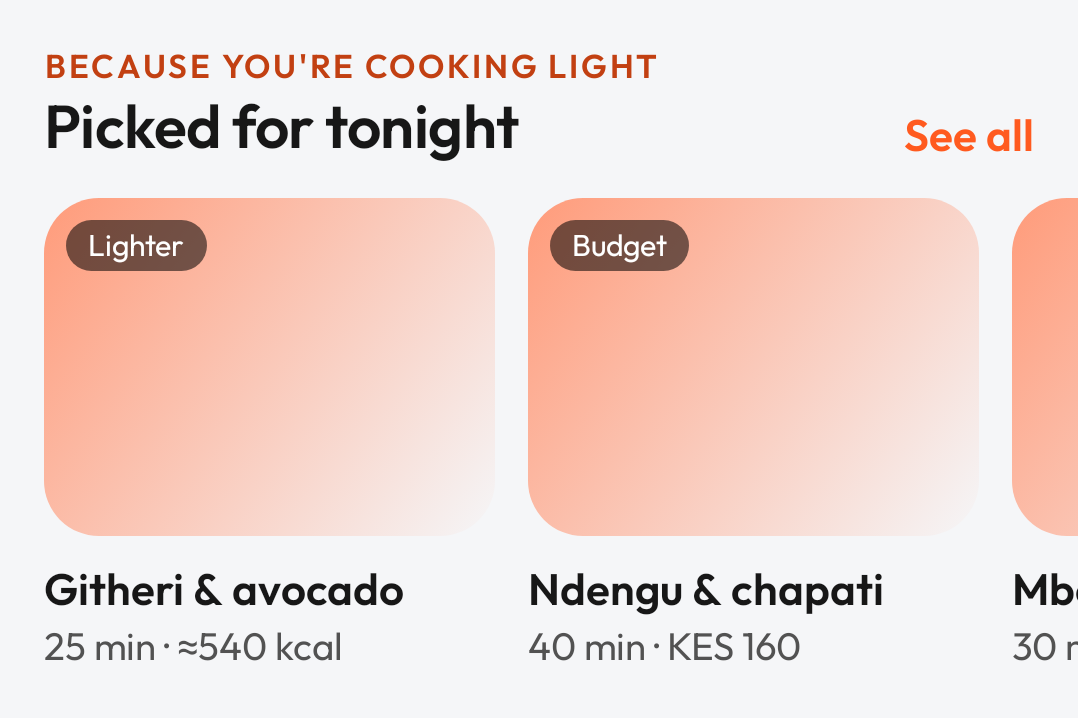
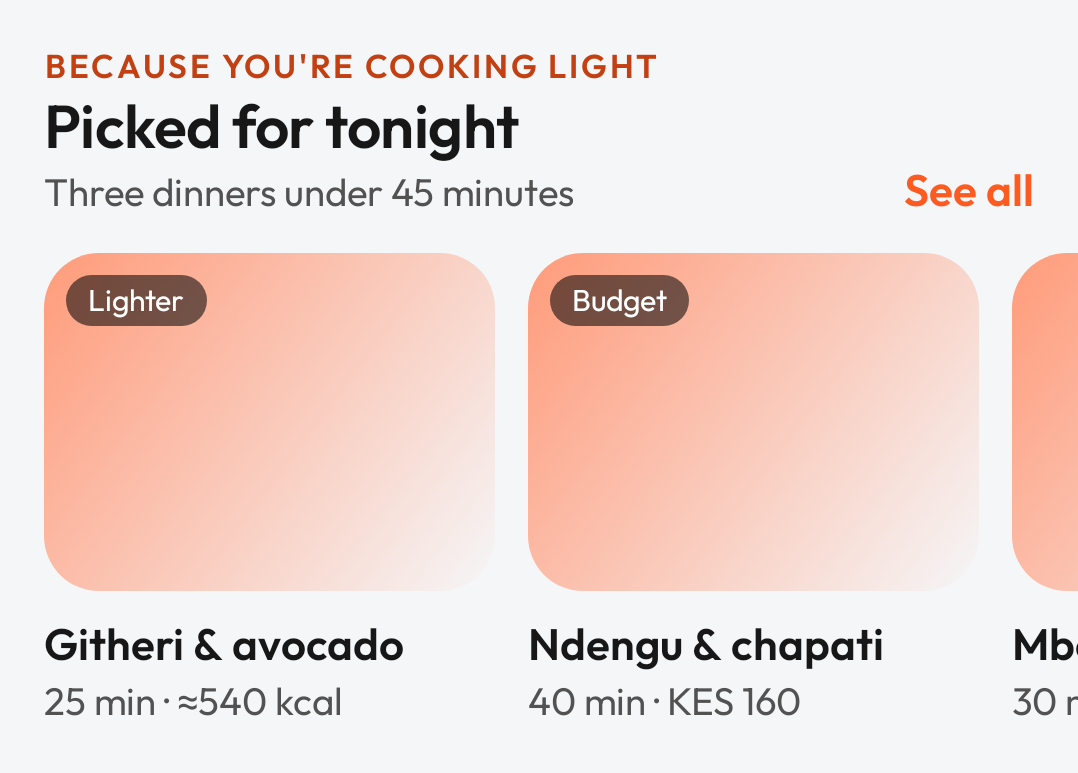
Add subtitle to JengaImageShelf and drop the pressed box on shelf and verdict bar actions

diff --git a/jenga/src/commonMain/kotlin/io/github/joelkanyi/jenga/component/verdict/JengaVerdictBar.kt b/jenga/src/commonMain/kotlin/io/github/joelkanyi/jenga/component/verdict/JengaVerdictBar.kt
@@ -1,7 +1,6 @@
 package io.github.joelkanyi.jenga.component.verdict
 
 import androidx.compose.foundation.background
-import androidx.compose.foundation.clickable
 import androidx.compose.foundation.layout.Arrangement
 import androidx.compose.foundation.layout.Box
 import androidx.compose.foundation.layout.Column
@@ -26,6 +25,8 @@ import androidx.compose.ui.unit.Dp
 import androidx.compose.ui.unit.dp
 import dev.drewhamilton.poko.Poko
 import io.github.joelkanyi.jenga.component.action.JengaAction
+import io.github.joelkanyi.jenga.component.link.JengaLink
+import io.github.joelkanyi.jenga.component.link.JengaLinkColors
 import io.github.joelkanyi.jenga.component.text.JengaText
 import io.github.joelkanyi.jenga.theme.JengaTheme
 
@@ -199,72 +200,89 @@ public fun JengaVerdictBar(
         verticalArrangement = Arrangement.spacedBy(JengaTheme.spacing.sm),
     ) {
         if (label != null || action != null) {
-            Row(verticalAlignment = Alignment.CenterVertically) {
-                if (label != null) {
-                    JengaText(
-                        text = label,
-                        style = JengaTheme.typography.bodySmall,
-                        color = colors.accent,
-                        modifier = Modifier.weight(1f),
-                        maxLines = 1,
-                    )
-                } else {
-                    Box(Modifier.weight(1f))
-                }
-                if (action != null) {
-                    JengaText(
-                        text = action.label,
-                        style = JengaTheme.typography.bodySmall,
-                        color = colors.muted,
-                        maxLines = 1,
-                        modifier = Modifier.clickable(onClick = action.onClick),
-                    )
-                }
-            }
+            VerdictHeader(label, action, colors)
         }
-        Row(verticalAlignment = Alignment.Bottom) {
-            JengaText(text = amount, style = amountStyle, color = colors.amount, maxLines = 1)
-            if (amountSuffix != null) {
-                JengaText(
-                    text = " $amountSuffix",
-                    style = amountSuffixStyle,
-                    color = colors.accent,
-                    maxLines = 1,
-                    modifier = Modifier.padding(bottom = JengaTheme.spacing.xs),
-                )
-            }
-        }
+        VerdictAmount(amount, amountSuffix, amountStyle, amountSuffixStyle, colors)
         if (progress != null) {
-            Box(
-                Modifier
-                    .fillMaxWidth()
-                    .height(trackHeight)
-                    .clip(RoundedCornerShape(percent = 50))
-                    .background(colors.track),
-            ) {
-                Box(
-                    Modifier
-                        .fillMaxWidth(progress.coerceIn(0f, 1f))
-                        .height(trackHeight)
-                        .clip(RoundedCornerShape(percent = 50))
-                        .background(if (progress >= 1f) colors.trackComplete else colors.trackFill),
-                )
-            }
+            VerdictProgress(progress, trackHeight, colors)
         }
         if (sublines != null) {
-            val end = sublines.end
-            Row(modifier = Modifier.fillMaxWidth()) {
-                JengaText(
-                    text = sublines.start,
-                    style = JengaTheme.typography.caption,
-                    color = colors.muted,
-                    modifier = Modifier.weight(1f),
-                    maxLines = 1,
-                )
-                if (end != null) {
-                    JengaText(text = end, style = JengaTheme.typography.caption, color = colors.muted, maxLines = 1)
-                }
-            }
+            VerdictSublines(sublines, colors)
+        }
+    }
+}
+
+@Composable
+private fun VerdictHeader(label: String?, action: JengaAction?, colors: JengaVerdictBarColors) {
+    Row(verticalAlignment = Alignment.CenterVertically) {
+        JengaText(
+            text = label.orEmpty(),
+            style = JengaTheme.typography.bodySmall,
+            color = colors.accent,
+            modifier = Modifier.weight(1f),
+            maxLines = 1,
+        )
+        if (action != null) {
+            JengaLink(
+                text = action.label,
+                onClick = action.onClick,
+                style = JengaTheme.typography.bodySmall,
+                colors = JengaLinkColors(content = colors.muted, disabledContent = colors.muted),
+                underline = false,
+            )
+        }
+    }
+}
+
+@Composable
+private fun VerdictAmount(amount: String, suffix: String?, amountStyle: TextStyle, suffixStyle: TextStyle, colors: JengaVerdictBarColors) {
+    Row(verticalAlignment = Alignment.Bottom) {
+        JengaText(text = amount, style = amountStyle, color = colors.amount, maxLines = 1)
+        if (suffix != null) {
+            JengaText(
+                text = " $suffix",
+                style = suffixStyle,
+                color = colors.accent,
+                maxLines = 1,
+                modifier = Modifier.padding(bottom = JengaTheme.spacing.xs),
+            )
+        }
+    }
+}
+
+@Composable
+private fun VerdictProgress(progress: Float, trackHeight: Dp, colors: JengaVerdictBarColors) {
+    val trackShape = RoundedCornerShape(percent = 50)
+    Box(
+        Modifier
+            .fillMaxWidth()
+            .height(trackHeight)
+            .clip(trackShape)
+            .background(colors.track),
+    ) {
+        Box(
+            Modifier
+                .fillMaxWidth(progress.coerceIn(0f, 1f))
+                .height(trackHeight)
+                .clip(trackShape)
+                .background(if (progress >= 1f) colors.trackComplete else colors.trackFill),
+        )
+    }
+}
+
+@Composable
+private fun VerdictSublines(sublines: JengaVerdictSublines, colors: JengaVerdictBarColors) {
+    val end = sublines.end
+    Row(modifier = Modifier.fillMaxWidth()) {
+        JengaText(
+            text = sublines.start,
+            style = JengaTheme.typography.caption,
+            color = colors.muted,
+            modifier = Modifier.weight(1f),
+            maxLines = 1,
+        )
+        if (end != null) {
+            JengaText(text = end, style = JengaTheme.typography.caption, color = colors.muted, maxLines = 1)
         }
     }
 }

diff --git a/jenga/src/commonMain/kotlin/io/github/joelkanyi/jenga/component/shelf/JengaImageShelf.kt b/jenga/src/commonMain/kotlin/io/github/joelkanyi/jenga/component/shelf/JengaImageShelf.kt
@@ -28,6 +28,8 @@ import androidx.compose.ui.unit.dp
 import io.github.joelkanyi.jenga.component.action.JengaAction
 import io.github.joelkanyi.jenga.component.image.JengaImage
 import io.github.joelkanyi.jenga.component.image.JengaImageFit
+import io.github.joelkanyi.jenga.component.link.JengaLink
+import io.github.joelkanyi.jenga.component.link.JengaLinkColors
 import io.github.joelkanyi.jenga.component.text.JengaText
 import io.github.joelkanyi.jenga.theme.JengaTheme
 
@@ -62,6 +64,7 @@ public object JengaShelfDefaults {
  * @param title the shelf title.
  * @param modifier the [Modifier] for the shelf.
  * @param eyebrow an optional small label above the title (e.g. a promo reason).
+ * @param subtitle an optional line under the title (e.g. "Picked for your last order").
  * @param action optional trailing header action (label plus handler), e.g. "See all".
  * @param gutter horizontal inset applied to the header and the scroll content.
  * @param content the row items, laid out left-to-right in a scrolling row.
@@ -71,6 +74,7 @@ public fun JengaImageShelf(
     title: String,
     modifier: Modifier = Modifier,
     eyebrow: String? = null,
+    subtitle: String? = null,
     action: JengaAction? = null,
     gutter: Dp = JengaShelfDefaults.Gutter,
     content: @Composable () -> Unit,
@@ -79,36 +83,7 @@ public fun JengaImageShelf(
         modifier = modifier.fillMaxWidth(),
         verticalArrangement = Arrangement.spacedBy(JengaTheme.spacing.md),
     ) {
-        Row(
-            modifier = Modifier.fillMaxWidth().padding(horizontal = gutter),
-            verticalAlignment = Alignment.Bottom,
-        ) {
-            Column(Modifier.weight(1f)) {
-                if (eyebrow != null) {
-                    JengaText(
-                        text = eyebrow,
-                        style = JengaTheme.typography.label,
-                        color = JengaTheme.colors.onBrandSubtle,
-                        maxLines = 1,
-                    )
-                }
-                JengaText(
-                    text = title,
-                    style = JengaTheme.typography.headingSmall,
-                    color = JengaTheme.colors.textPrimary,
-                    maxLines = 1,
-                )
-            }
-            if (action != null) {
-                JengaText(
-                    text = action.label,
-                    style = JengaTheme.typography.titleSmall,
-                    color = JengaTheme.colors.brand,
-                    maxLines = 1,
-                    modifier = Modifier.clickable(onClick = action.onClick),
-                )
-            }
-        }
+        ShelfHeader(title, eyebrow, subtitle, action, Modifier.fillMaxWidth().padding(horizontal = gutter))
         Row(
             modifier = Modifier
                 .fillMaxWidth()
@@ -119,6 +94,63 @@ public fun JengaImageShelf(
             content()
         }
     }
+}
+
+@Composable
+private fun ShelfHeader(title: String, eyebrow: String?, subtitle: String?, action: JengaAction?, modifier: Modifier = Modifier) {
+    Row(modifier = modifier, verticalAlignment = Alignment.Bottom) {
+        ShelfTitles(eyebrow, title, subtitle, Modifier.weight(1f))
+        if (action != null) {
+            JengaLink(
+                text = action.label,
+                onClick = action.onClick,
+                style = JengaTheme.typography.titleSmall,
+                colors = JengaLinkColors(content = JengaTheme.colors.brand, disabledContent = JengaTheme.colors.contentDisabled),
+                underline = false,
+            )
+        }
+    }
+}
+
+@Composable
+private fun ShelfTitles(eyebrow: String?, title: String, subtitle: String?, modifier: Modifier = Modifier) {
+    Column(modifier) {
+        if (eyebrow != null) {
+            JengaText(
+                text = eyebrow,
+                style = JengaTheme.typography.label,
+                color = JengaTheme.colors.onBrandSubtle,
+                maxLines = 1,
+            )
+        }
+        JengaText(
+            text = title,
+            style = JengaTheme.typography.headingSmall,
+            color = JengaTheme.colors.textPrimary,
+            maxLines = 1,
+        )
+        if (subtitle != null) {
+            JengaText(
+                text = subtitle,
+                style = JengaTheme.typography.bodySmall,
+                color = JengaTheme.colors.textMuted,
+                maxLines = 1,
+            )
+        }
+    }
+}
+
+@Deprecated("Kept for binary compatibility", level = DeprecationLevel.HIDDEN)
+@Composable
+public fun JengaImageShelf(
+    title: String,
+    modifier: Modifier = Modifier,
+    eyebrow: String? = null,
+    action: JengaAction? = null,
+    gutter: Dp = JengaShelfDefaults.Gutter,
+    content: @Composable () -> Unit,
+) {
+    JengaImageShelf(title = title, modifier = modifier, eyebrow = eyebrow, action = action, gutter = gutter, content = content)
 }
 
 /**

diff --git a/jenga/src/androidMain/kotlin/io/github/joelkanyi/jenga/component/shelf/JengaImageShelfPreviews.kt b/jenga/src/androidMain/kotlin/io/github/joelkanyi/jenga/component/shelf/JengaImageShelfPreviews.kt
@@ -35,6 +35,7 @@ private fun ShelfShowcase() {
         JengaImageShelf(
             title = "Picked for tonight",
             eyebrow = "BECAUSE YOU'RE COOKING LIGHT",
+            subtitle = "Three dinners under 45 minutes",
             action = JengaAction(label = "See all", onClick = {}),
         ) {
             JengaShelfCard(
